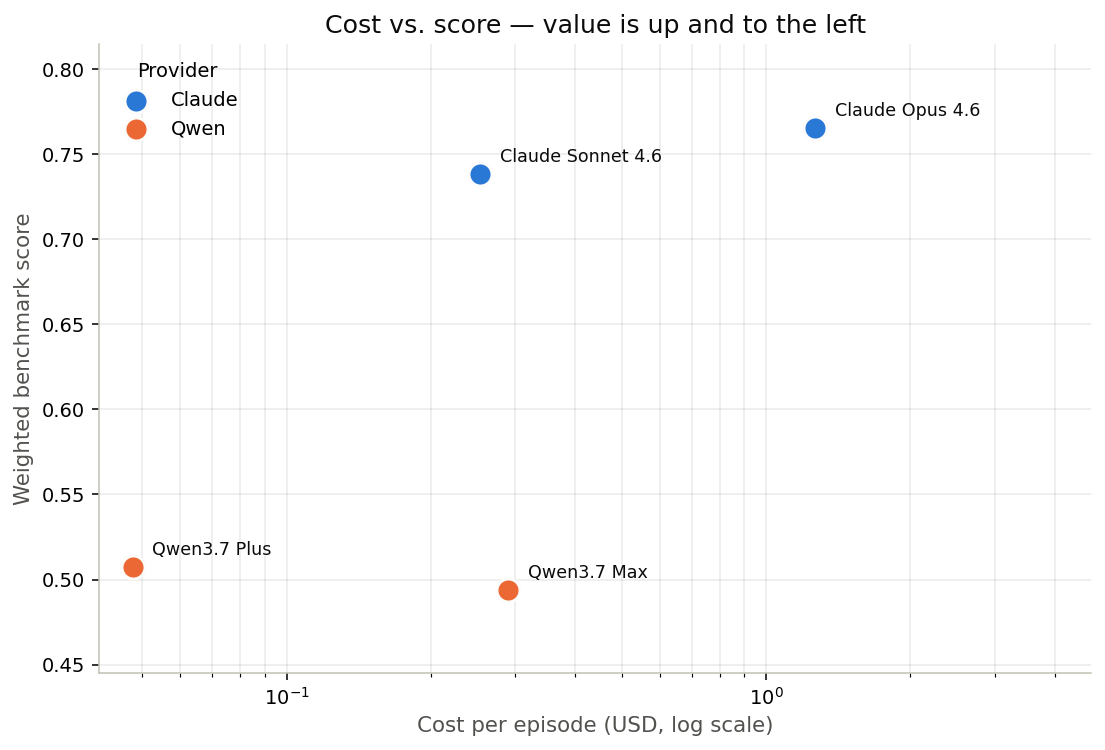
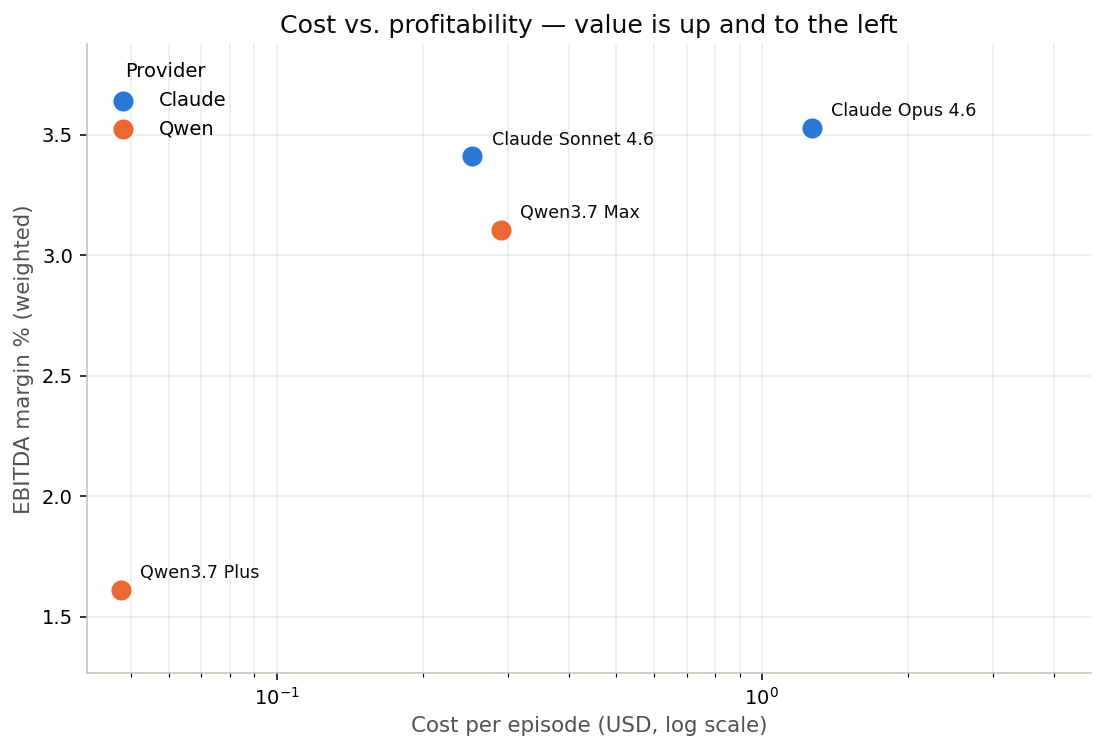
Rank leaderboard by EBITDA margin, not the RL reward score
The reward is a training signal — its weights/normalizers are design choices
tuned for learnability (and re-tuned this session), so ranking the benchmark on
it means the leaderboard can shift without any model changing. The benchmark
should compare on measured business terms.

- Leaderboard now ranks by difficulty-weighted EBITDA margin, with stockout /
  NPS / min-cash finance columns. All-Approve now correctly lands at a LOSS
  (-0.73% EBITDA) below every real model, with no weighting tricks needed.
- Reward score moved to the RL/OpenEnv section, labeled as the training signal.
- `eval.cli leaderboard` gains --metric (default ebitda; 'reward' for the RL
  signal) so both views are reproducible.
- Cost chart re-axised to EBITDA vs cost: Qwen Max hits +3.11% at ~4x less cost
  than Opus's +3.53%.

167 tests pass.

diff --git a/eval/cli.py b/eval/cli.py
@@ -265,13 +265,31 @@ def cmd_trace(args) -> int:
 _LABEL_RE = __import__("re").compile(r"^(?P<policy>.*?)\s*\((?P<diff>easy|medium|hard)\)\s*$")
 
 
+# CLI metric name -> result-JSON field. `reward` is the RL training signal;
+# the default is EBITDA margin, the primary business outcome the benchmark ranks on.
+_METRIC_FIELD = {
+    "ebitda": "ebitda_margin_pct",
+    "reward": "total_reward",
+    "stockout": "avg_stockout_pct",
+    "nps": "avg_nps",
+}
+
+
 def cmd_leaderboard(args) -> int:
-    """Aggregate result JSONs into a difficulty-weighted, ranked leaderboard."""
+    """Aggregate result JSONs into a difficulty-weighted, ranked leaderboard.
+
+    Ranks by --metric (default: ebitda margin — the business outcome). Also
+    shows the companion finance columns (stockout, NPS, min-cash). `--metric
+    reward` ranks by the RL training signal instead.
+    """
     import statistics as _stat
     from . import stats as _stats
 
-    # policy -> difficulty -> list of total_reward
-    rewards: Dict[str, Dict[str, List[float]]] = {}
+    rank_field = _METRIC_FIELD.get(args.metric, args.metric)
+    # policy -> difficulty -> {field: [values]}
+    agg: Dict[str, Dict[str, Dict[str, List[float]]]] = {}
+    fields = ["ebitda_margin_pct", "total_reward", "avg_stockout_pct", "avg_nps",
+              "min_cash_inr", rank_field]
     for path in args.results:
         with open(path) as f:
             data = json.load(f)
@@ -283,31 +301,43 @@ def cmd_leaderboard(args) -> int:
                 continue
             policy = _clean_policy_name(m.group("policy"))
             diff = m.group("diff")
-            bucket = rewards.setdefault(policy, {}).setdefault(diff, [])
-            bucket.extend(e["total_reward"] for e in entries)
+            slot = agg.setdefault(policy, {}).setdefault(diff, {})
+            for fld in fields:
+                slot.setdefault(fld, []).extend(
+                    e[fld] for e in entries if e.get(fld) is not None
+                )
 
-    if not rewards:
+    if not agg:
         print("[leaderboard] no difficulty-labelled results found in inputs")
         return 0
 
-    # policy -> {diff: mean, weighted, n}
-    table = []
-    for policy, by_diff in rewards.items():
-        means = {d: _stat.mean(v) for d, v in by_diff.items() if v}
-        w = _stats.weighted_score(means)
-        n = max((len(v) for v in by_diff.values()), default=0)
-        table.append((policy, means, w, n))
-    table.sort(key=lambda row: -row[2])
+    def wmean(by_diff, fld, scale=1.0):
+        means = {d: _stat.mean(v[fld]) * scale for d, v in by_diff.items() if v.get(fld)}
+        return _stats.weighted_score(means)
 
-    print(f"\n=== Leaderboard (weighted {args.weights}, {len(table)} policies) ===")
-    hdr = f"{'policy':<24} {'easy':>7} {'medium':>7} {'hard':>7} {'weighted':>9} {'n':>4}"
+    table = []
+    for policy, by_diff in agg.items():
+        rank = wmean(by_diff, rank_field)
+        ebitda = wmean(by_diff, "ebitda_margin_pct")
+        stockout = wmean(by_diff, "avg_stockout_pct")
+        nps = wmean(by_diff, "avg_nps")
+        mincash = wmean(by_diff, "min_cash_inr", scale=1e-7)
+        n = max((len(v.get(rank_field, [])) for v in by_diff.values()), default=0)
+        table.append((policy, rank, ebitda, stockout, nps, mincash, n))
+    table.sort(key=lambda row: -row[1])
+
+    metric_lbl = args.metric
+    print(f"\n=== Leaderboard (weighted {args.weights}, ranked by {metric_lbl}, "
+          f"{len(table)} policies) ===")
+    hdr = (f"{'policy':<24} {'EBITDA%':>8} {'stockout%':>9} {'NPS':>6} "
+           f"{'minCash':>8} {'n':>4}")
     print(hdr)
     print("-" * len(hdr))
-    for policy, means, w, n in table:
-        def cell(d: str) -> str:
-            return f"{means[d]:+7.2f}" if d in means else f"{'-':>7}"
-        print(f"{policy:<24} {cell('easy')} {cell('medium')} {cell('hard')} {w:+9.3f} {n:>4}")
-    print("\n  weighted = (1*easy + 2*medium + 3*hard) / 6; higher is better.")
+    for policy, rank, ebitda, stockout, nps, mincash, n in table:
+        print(f"{policy:<24} {ebitda:+8.2f} {stockout:9.1f} {nps:6.1f} "
+              f"{mincash:+8.1f} {n:>4}")
+    print(f"\n  weighted = (1*easy + 2*medium + 3*hard) / 6. Ranked by {metric_lbl}; "
+          "EBITDA margin higher = better.")
     return 0
 
 
@@ -572,8 +602,12 @@ def main() -> int:
 
     # leaderboard
     lb = sub.add_parser("leaderboard",
-                        help="Rank result JSONs by difficulty-weighted score (1-2-3)")
+                        help="Rank result JSONs by difficulty-weighted finance terms")
     lb.add_argument("results", nargs="+", help="Result JSON files to rank")
+    lb.add_argument("--metric", default="ebitda",
+                    choices=["ebitda", "reward", "stockout", "nps"],
+                    help="Ranking metric (default: ebitda margin — the business "
+                         "outcome; 'reward' = the RL training signal)")
     lb.add_argument("--weights", type=str, default="1-2-3",
                     help="Display label for the weighting (weights come from "
                          "economics.DIFFICULTY_WEIGHTS)")

diff --git a/eval/plot_cost_score.py b/eval/plot_cost_score.py
@@ -37,7 +37,7 @@ _DIFF_RE = re.compile(r"\((easy|medium|hard)\)")
 
 
 def _model_point(path: str) -> Tuple[float, float]:
-    """Return (weighted_score, mean_cost_per_episode) for one result file."""
+    """Return (weighted_ebitda_margin_pct, mean_cost_per_episode) for a result file."""
     with open(path) as f:
         data = json.load(f)
     per_diff: Dict[str, float] = {}
@@ -46,7 +46,7 @@ def _model_point(path: str) -> Tuple[float, float]:
         m = _DIFF_RE.search(label)
         if not m:
             continue
-        per_diff[m.group(1)] = statistics.mean(e["total_reward"] for e in entries)
+        per_diff[m.group(1)] = statistics.mean(e["ebitda_margin_pct"] for e in entries)
         costs += [e["est_cost_usd"] for e in entries if e.get("est_cost_usd") is not None]
     if not costs:
         raise ValueError(f"{path} has no est_cost_usd — cannot place it on the cost axis")
@@ -78,8 +78,8 @@ def render(out_path: str, models=MODELS) -> str:
                     xytext=(10, 6), fontsize=9, color="#0b0b0b")
 
     ax.set_xlabel("Cost per episode (USD, log scale)", fontsize=11, color="#52514e")
-    ax.set_ylabel("Weighted benchmark score", fontsize=11, color="#52514e")
-    ax.set_title("Cost vs. score — value is up and to the left", fontsize=13, color="#0b0b0b")
+    ax.set_ylabel("EBITDA margin % (weighted)", fontsize=11, color="#52514e")
+    ax.set_title("Cost vs. profitability — value is up and to the left", fontsize=13, color="#0b0b0b")
     ax.grid(True, which="both", alpha=0.25, zorder=0)
     ax.legend(title="Provider", frameon=False, loc="upper left")
     # Extra right headroom so the longest direct label doesn't clip the frame.

diff --git a/README.md b/README.md
@@ -55,38 +55,42 @@ It is **two things at once**:
 
 ## Leaderboard
 
-Full protocol: 10 seeds × 3 difficulties. Ranked by **Weighted** score —
-a difficulty-weighted mean `(1·easy + 2·medium + 3·hard) / 6` that counts the
-adversarial hard regime most, since easy barely separates policies. Higher is
-better.
+Full protocol: 10 seeds × 3 difficulties. Ranked by **EBITDA margin** — the
+actual business outcome, not a tunable reward. All columns are
+difficulty-weighted `(1·easy + 2·medium + 3·hard) / 6`, which counts the
+adversarial hard regime most since easy barely separates policies.
 
-| Policy | Easy | Medium | Hard | Weighted |
-|--------|------|--------|------|----------|
-| Oracle (ceiling) | +2.01 | +1.60 | +0.32 | +1.03 |
-| Heuristic (19 rules) | +2.01 | +1.60 | +0.24 | +0.99 |
-| **Claude Opus 4.6** | +1.59 | +1.10 | +0.27 | +0.77 |
-| **Claude Sonnet 4.6** | +1.55 | +1.06 | +0.25 | +0.74 |
-| All-Approve | +2.08 | +1.32 | -0.17 | +0.70 |
-| **Qwen3.7 Plus** | +1.68 | +0.86 | -0.12 | +0.51 |
-| **Qwen3.7 Max** | +1.56 | +0.93 | -0.15 | +0.49 |
-| Random | +0.42 | -0.27 | -1.37 | -0.71 |
+| Policy | EBITDA % | Stockout % | NPS | Min-cash (Cr) |
+|--------|---------:|-----------:|----:|--------------:|
+| Oracle (ceiling) | +4.57 | 1.2 | 33.4 | +20.0 |
+| Heuristic (19 rules) | +4.29 | 1.3 | 33.4 | +20.0 |
+| **Claude Opus 4.6** | +3.53 | 5.8 | 30.1 | +20.0 |
+| **Claude Sonnet 4.6** | +3.41 | 5.4 | 30.2 | +20.0 |
+| **Qwen3.7 Max** | +3.11 | 6.3 | 29.5 | +20.0 |
+| **Qwen3.7 Plus** | +1.61 | 4.0 | 32.0 | +19.7 |
+| All-Approve | -0.73 | 4.7 | 31.6 | +19.9 |
+| Random | -2.96 | 18.1 | 15.4 | +19.9 |
 
-> All rows are under the corrected reward (10 seeds × 3 difficulties). Every LLM
-> tested still **underperforms the hand-crafted Heuristic baseline** — closing
-> that gap is the benchmark's core challenge. The hard regime is where they
-> separate: the Claude models stay positive on hard (+0.25/+0.27) while the
-> open-source **Qwen3.7 models go negative** (-0.12/-0.15) — they look strong on
-> easy (Plus even tops it) but can't filter self-serving proposals under
-> pressure, and extended reasoning doesn't rescue them. The weighting surfaces
-> this: on a plain average, mindless All-Approve outranks the Claude models
-> (easy/medium reward blind approval), but it collapses on hard so the
-> hard-weighted score ranks them correctly. The **Oracle** is a genuine ceiling
-> above the heuristic (horizon-aware capex foresight); see
-> [docs/CALIBRATION.md](./docs/CALIBRATION.md) for the reward-design analysis.
+> **Why EBITDA, not the reward score?** The benchmark ranks on **operating
+> profit** — a measured business fact — rather than the RL reward, whose weights
+> and normalizers are *design choices* tuned for training and can be re-tuned
+> without any model changing. Higher EBITDA % = more profitable; min-cash is the
+> solvency gate (all models here stayed solvent, ~₹20 Cr floor).
+>
+> Every LLM tested still **underperforms the hand-crafted Heuristic** — closing
+> that gap is the benchmark's core challenge. Notably, **All-Approve runs at a
+> loss** (-0.73% EBITDA): blindly approving self-serving proposals destroys
+> margin, so the business metric ranks it below every real model *for free* —
+> no weighting tricks needed. Among LLMs, all four are profitable but trail the
+> heuristic's +4.29%; the **Oracle** is a genuine ceiling above it (horizon-aware
+> capex foresight — see [docs/CALIBRATION.md](./docs/CALIBRATION.md)).
+>
+> The RL **reward score** (the training signal, a separate axis) lives in the
+> [RL Training Environment](#rl-training-environment-openenv) section.
 >
 > **Run config:** LLM rows used `--permissive`, temperature 0, and no parse
-> retries; Qwen ran via ModelScope (thinking on). Reproduce the ranking with
-> `python -m eval.cli leaderboard results/*.json`; full per-seed traces are the
+> retries; Qwen ran via ModelScope (thinking on). Reproduce with
+> `python -m eval.cli leaderboard results/*_full.json`; per-seed traces are the
 > `results/*_full.json` files.
 
 <details>
@@ -121,23 +125,25 @@ better.
 
 </details>
 
-> All rows are under the corrected reward (see [Reward](#reward)). Baselines
-> reproduce with `python -m eval.cli baselines --protocol full`; frontier rows
-> with `python -m eval.cli frontier --model <model> --protocol full`. Adding
-> more models is welcome as PRs.
+> The extended table keeps both the RL **Reward** (training signal) and the
+> **finance** columns per difficulty. Baselines reproduce with
+> `python -m eval.cli baselines --protocol full`; frontier rows with
+> `python -m eval.cli frontier --model <model> --protocol full`. Adding more
+> models is welcome as PRs.
 
-### Cost vs. score
+### Cost vs. profitability
 
 <p align="center">
-  <img src="assets/cost_vs_score.png" alt="Scatter of weighted benchmark score against cost per episode (log scale). Claude Opus 4.6 and Sonnet 4.6 in blue at higher score and higher cost; Qwen3.7 Plus and Max in orange at lower score but much lower cost." width="760">
+  <img src="assets/cost_vs_score.png" alt="Scatter of weighted EBITDA margin against cost per episode (log scale). Claude Opus 4.6 and Sonnet 4.6 in blue at higher cost; Qwen3.7 Plus and Max in orange at much lower cost with comparable margin." width="760">
 </p>
 
-Score isn't the whole story — **cost per episode spans 26×** across these models.
-Qwen3.7 Plus reaches **66% of Opus 4.6's weighted score for ~4% of its cost**
-($0.048 vs $1.27/episode), and it edges out Sonnet 4.6 on cost too. So while the
-Qwen models rank lowest on raw score, they are the **most cost-efficient** LLMs
-tested — a real option when budget matters more than the last fraction of a point.
-Regenerate with `python -m eval.plot_cost_score`.
+Profitability isn't the whole story — **cost per episode spans 26×** across these
+models. **Qwen3.7 Max hits +3.11% EBITDA at $0.29/episode**, within a fraction of
+a point of Opus 4.6's +3.53% but at **~4× less cost**, and it sits right beside
+Sonnet 4.6. **Qwen3.7 Plus is the cheapest by far** ($0.048/episode) while still
+running the business profitably. So while the Qwen models rank lower on raw
+margin, they are the **most cost-efficient** LLMs tested — a real option when
+budget matters. Regenerate with `python -m eval.plot_cost_score`.
 
 ---
 
@@ -344,6 +350,31 @@ with RetailCEOEnv(base_url="http://localhost:8000") as env:
 `result.observation` also surfaces read-only scalars (`week`, `cash_inr`,
 `ebitda_margin_pct`, `stockout_rate_pct`, `nps`, …) and `metadata["parse"]`
 (how the last action parsed) for logging and reward shaping.
+
+### Reward score (training signal — not the benchmark rank)
+
+The env's per-step reward is a *dense, shaped training signal*, distinct from the
+[EBITDA leaderboard](#leaderboard). Its weights (0.25 kpi-delta, 0.70 terminal
+EBITDA, small penalties) and normalizers are **design choices** tuned for
+learnability — they can be re-tuned without any policy changing, which is exactly
+why the public leaderboard ranks on measured EBITDA instead. For reference, the
+difficulty-weighted reward `(1·easy + 2·medium + 3·hard) / 6`:
+
+| Policy | Weighted reward |
+|--------|----------------:|
+| Oracle | +1.03 |
+| Heuristic | +0.99 |
+| Claude Opus 4.6 | +0.77 |
+| Claude Sonnet 4.6 | +0.74 |
+| All-Approve | +0.70 |
+| Qwen3.7 Plus | +0.51 |
+| Qwen3.7 Max | +0.49 |
+| Random | -0.71 |
+
+Reproduce with `python -m eval.cli leaderboard results/*_full.json --metric reward`.
+See [docs/CALIBRATION.md](./docs/CALIBRATION.md) for how the reward is shaped and
+why All-Approve scores high here (blind approval is rewarded on easy/medium) yet
+runs at a **loss** in EBITDA terms.
 
 ---
 
